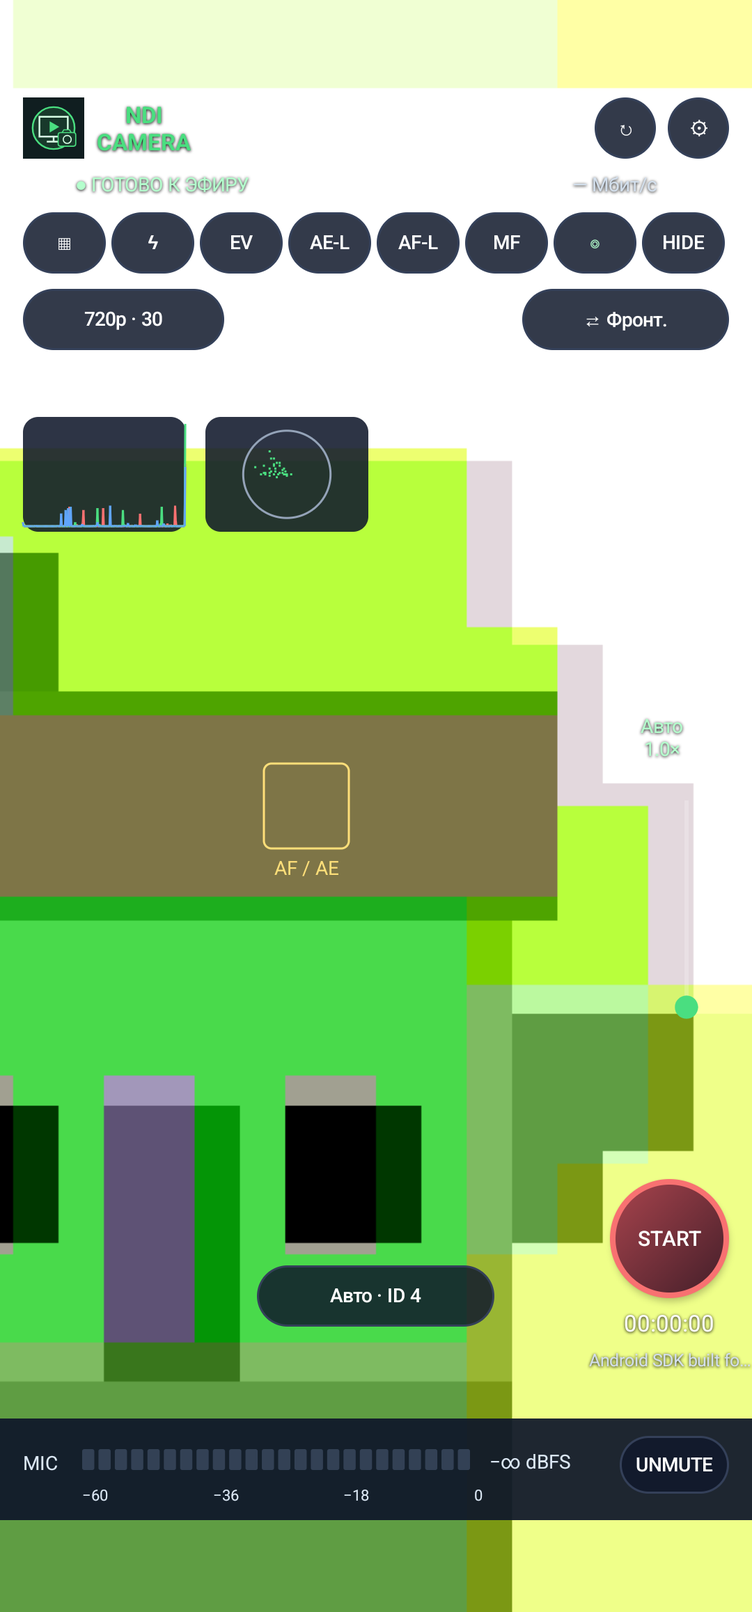
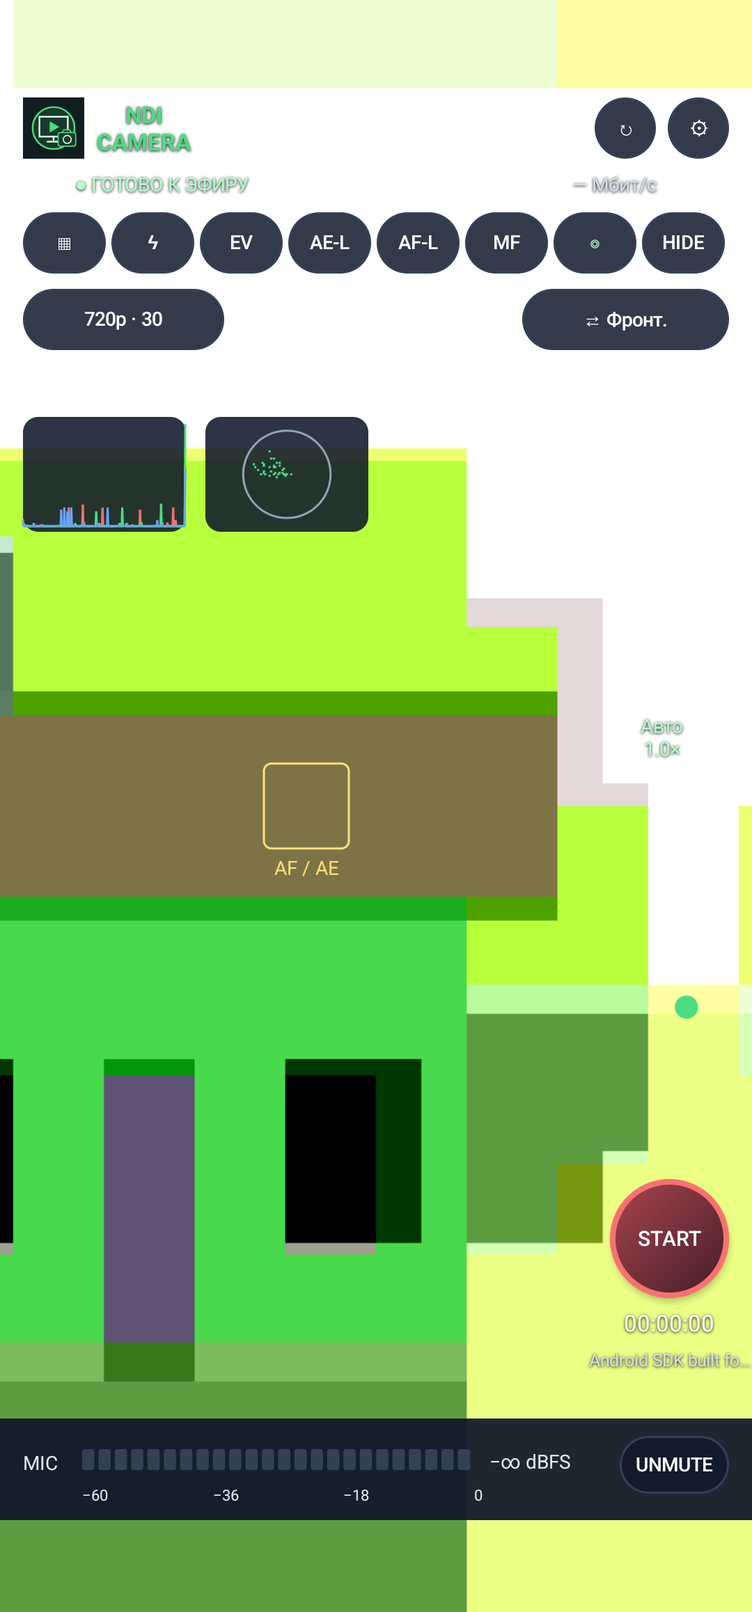
Use automatic lenses and center landscape quick controls

diff --git a/src/ru/ileech/ndicamera/CameraHud.java b/src/ru/ileech/ndicamera/CameraHud.java
@@ -17,7 +17,7 @@ final class CameraHud extends FrameLayout {
  private final Rect safeInsets=new Rect();private List<Rect> cutoutRects=Collections.emptyList();private int contentLeft,contentRight,contentBottom,headerTop,scopeTop;private boolean landscape;
  CameraHud(Context c,CameraController camera,Actions actions){super(c);this.camera=camera;this.actions=actions;setWillNotDraw(false);setBackgroundColor(Color.TRANSPARENT);setFocusable(true);
   logo=new ImageView(c);logo.setImageResource(R.drawable.ic_launcher);logo.setContentDescription("NDI Camera");addView(logo);brand=label("NDI\nCAMERA",12,0xff4ade80);brand.setTypeface(null,1);status=label("ГОТОВО К ЭФИРУ",10,0xffb4ffcd);timer=label("00:00:00",12,Color.WHITE);bitrate=label("— Мбит/с",10,0xffd3dfec);source=label("Android Camera",9,0xffd3dfec);zoomText=label("1×",12,0xffb4ffcd);
-  button("lock","↻","Блокировка ориентации");button("settings","⚙","Настройки");button("grid","▦","Сетка");button("light","ϟ","Подсветка");button("ev","EV","Экспокоррекция");button("ae","AE-L","Зафиксировать экспозицию");button("af","AF-L","Зафиксировать фокус");button("mf","MF","Ручной фокус");button("scopes","◎","Вектроскоп и RGB-гистограмма");button("hide","HIDE","Скрыть оверлей");button("camera","⇄ Тыловая","Переключить камеру");button("swap","⇄","Поменять основную камеру и PIP");button("quality","720p · 30","Разрешение и частота кадров");button("lenses","◎ 1×","Выбрать объектив");button("start","START","Начать / остановить трансляцию");button("mute","MUTE","Выключить / включить микрофон");button("restore","HUD","Показать оверлей");
+  button("lock","↻","Блокировка ориентации");button("settings","⚙","Настройки");button("grid","▦","Сетка");button("light","ϟ","Подсветка");button("ev","EV","Экспокоррекция");button("ae","AE-L","Зафиксировать экспозицию");button("af","AF-L","Зафиксировать фокус");button("mf","MF","Ручной фокус");button("scopes","◎","Вектроскоп и RGB-гистограмма");button("hide","HIDE","Скрыть оверлей");button("camera","⇄ Тыловая","Переключить камеру");button("swap","⇄","Поменять основную камеру и PIP");button("quality","720p · 30","Разрешение и частота кадров");button("start","START","Начать / остановить трансляцию");button("mute","MUTE","Выключить / включить микрофон");button("restore","HUD","Показать оверлей");
   GradientDrawable red=new GradientDrawable(GradientDrawable.Orientation.TL_BR,new int[]{0xffa9444d,0xff421e29});red.setShape(GradientDrawable.OVAL);red.setStroke(dp(3),0xfff87171);buttons.get("start").setBackground(red);buttons.get("start").setTextSize(11);
   zoom=new SeekBar(c);zoom.setMax(1000);zoom.setRotation(-90);zoom.setProgressTintList(android.content.res.ColorStateList.valueOf(0xff4ade80));zoom.setThumbTintList(android.content.res.ColorStateList.valueOf(0xff4ade80));zoom.setContentDescription("Зум");addView(zoom);zoom.setOnSeekBarChangeListener(new SeekBar.OnSeekBarChangeListener(){public void onProgressChanged(SeekBar s,int p,boolean from){if(from&&!programmatic)actions.zoom(camera.minZoom+p/1000f*(camera.maxZoom-camera.minZoom));}public void onStartTrackingTouch(SeekBar s){}public void onStopTrackingTouch(SeekBar s){}});
   scale=new ScaleGestureDetector(c,new ScaleGestureDetector.SimpleOnScaleGestureListener(){@Override public boolean onScaleBegin(ScaleGestureDetector d){multi=true;removeCallbacks(hold);pinchZoom=camera.zoom;return true;}@Override public boolean onScale(ScaleGestureDetector d){pinchZoom=Math.max(camera.minZoom,Math.min(camera.maxZoom,pinchZoom*d.getScaleFactor()));actions.zoom(pinchZoom);return true;}});
@@ -33,20 +33,21 @@ final class CameraHud extends FrameLayout {
  @Override protected void onMeasure(int widthSpec,int heightSpec){layoutControls(MeasureSpec.getSize(widthSpec),MeasureSpec.getSize(heightSpec));super.onMeasure(widthSpec,heightSpec);}
  private void layoutControls(int fullWidth,int fullHeight){int left=safeInsets.left,right=fullWidth-safeInsets.right,w=right-left,bottom=fullHeight-safeInsets.bottom;if(w<=0||bottom<=0)return;boolean land=w>bottom;landscape=land;contentLeft=left;contentRight=right;contentBottom=bottom;int margin=dp(12),unit=dp(32),top=Math.max(50,safeInsets.top);for(Rect cutout:cutoutRects)if(cutout.top<top+unit&&cutout.bottom>top&&((cutout.left<left+margin+dp(91)&&cutout.right>left+margin)||(cutout.left<right-margin&&cutout.right>right-margin-2*unit-dp(6))))top=Math.max(top,cutout.bottom+4);headerTop=top;
   place(logo,left+margin,top,dp(32),dp(32));place(brand,left+margin+dp(36),top,dp(55),dp(32));place(buttons.get("settings"),right-margin-unit,top,unit,unit);place(buttons.get("lock"),right-margin-unit*2-dp(6),top,unit,unit);
-  int statusY=top+dp(36),row=statusY+dp(24),gap=dp(3),tool=Math.min(dp(52),(w-margin*2-gap*7)/8);
-  place(status,left+margin,statusY,dp(145),dp(18));place(bitrate,right-margin-dp(120),statusY,dp(120),dp(18));String[] tools={"grid","light","ev","ae","af","mf","scopes","hide"};for(int i=0;i<tools.length;i++)place(buttons.get(tools[i]),left+margin+i*(tool+gap),row,tool,unit);
-  int line=row+unit+dp(8),cameraWidth=dp(108);place(buttons.get("camera"),right-margin-cameraWidth,line,cameraWidth,unit);place(buttons.get("swap"),right-margin-cameraWidth-unit-dp(6),line,unit,unit);place(buttons.get("quality"),left+margin,line,dp(105),unit);
-  int audioTop=bottom-dp(53),startX=right-margin-dp(62)-(land?dp(70):0),startY=audioTop-dp(125);place(buttons.get("start"),startX,startY,dp(62),dp(62));place(timer,startX-dp(8),startY+dp(65),dp(78),dp(20));place(source,startX-dp(12),startY+dp(85),dp(86),dp(18));place(buttons.get("mute"),right-margin-dp(57),audioTop+dp(9),dp(57),dp(30));place(buttons.get("lenses"),left+w/2-dp(62),audioTop-dp(80),dp(124),dp(32));
+  int statusY=land?top+unit+dp(3):top+dp(36),row=land?top:statusY+dp(24),gap=dp(3),tool=Math.min(dp(52),(w-margin*2-gap*7)/8);
+  int toolbarLeft=left+margin;if(land){int center=left+w/2,half=Math.min(center-(left+margin+dp(108)),right-margin-2*unit-dp(22)-center);tool=Math.min(tool,Math.max(1,(half*2-gap*7)/8));toolbarLeft=center-(tool*8+gap*7)/2;for(Rect cutout:cutoutRects)if(cutout.left<toolbarLeft+tool*8+gap*7&&cutout.right>toolbarLeft&&cutout.top<row+unit&&cutout.bottom>row)row=Math.max(row,cutout.bottom+4);}
+  place(status,left+margin,statusY,dp(145),dp(land?14:18));place(bitrate,right-margin-dp(120),statusY,dp(120),dp(land?14:18));String[] tools={"grid","light","ev","ae","af","mf","scopes","hide"};for(int i=0;i<tools.length;i++)place(buttons.get(tools[i]),toolbarLeft+i*(tool+gap),row,tool,unit);
+  int line=land?top+unit+50:row+unit+dp(8),cameraWidth=dp(108);place(buttons.get("camera"),right-margin-cameraWidth,line,cameraWidth,unit);place(buttons.get("swap"),right-margin-cameraWidth-unit-dp(6),line,unit,unit);place(buttons.get("quality"),left+margin,line,dp(105),unit);
+  int audioTop=bottom-dp(53),startX=right-margin-dp(62)-(land?dp(70):0),startY=audioTop-dp(125);place(buttons.get("start"),startX,startY,dp(62),dp(62));place(timer,startX-dp(8),startY+dp(65),dp(78),dp(20));place(source,startX-dp(12),startY+dp(85),dp(86),dp(18));place(buttons.get("mute"),right-margin-dp(57),audioTop+dp(9),dp(57),dp(30));
   int sliderLength=land?Math.max(dp(40),Math.min(dp(95),audioTop-line-unit-dp(58))):Math.min(dp(140),Math.max(dp(50),startY-line-unit-dp(70)));
   int sliderTop=land?line+unit+dp(38):Math.max(line+unit+dp(45),Math.min(startY-dp(25)-sliderLength,(bottom+line)/2-sliderLength/2));int centerY=sliderTop+sliderLength/2;
   place(zoom,right-margin-dp(22)-sliderLength/2,centerY-dp(22),sliderLength,dp(44));place(zoomText,right-margin-dp(70),sliderTop-dp(31),dp(70),dp(27));place(buttons.get("restore"),right-margin-dp(56),top,dp(56),unit);buttons.get("restore").setVisibility(hidden?VISIBLE:GONE);
   scopeTop=line+unit+dp(35);float pw=Math.min(dp(95),w*.24f),ph=pw*1.4f,pipLeft=left+25,pipBottom=audioTop-dp(20);actions.pipBounds(new RectF(pipLeft/fullWidth,(pipBottom-ph)/fullHeight,(pipLeft+pw)/fullWidth,pipBottom/fullHeight));
  }
  void update(boolean live,boolean muted,boolean showBitrate,boolean locked,String name,StreamSession stream){
-  buttons.get("start").setText(live?"STOP":"START");buttons.get("mute").setText(muted?"UNMUTE":"MUTE");buttons.get("camera").setText(camera.pip?"⇄ Обе · PIP":camera.mainFront?"⇄ Фронт.":"⇄ Тыловая");buttons.get("swap").setVisibility(!hidden&&camera.pip?VISIBLE:GONE);buttons.get("quality").setText(camera.height+"p · "+camera.fps);buttons.get("lock").setText(locked?"▣":"↻");buttons.get("lenses").setText(camera.lensCaption());buttons.get("lenses").setContentDescription("Выбрать объектив. "+camera.lensDescription());
+  buttons.get("start").setText(live?"STOP":"START");buttons.get("mute").setText(muted?"UNMUTE":"MUTE");buttons.get("camera").setText(camera.pip?"⇄ Обе · PIP":camera.mainFront?"⇄ Фронт.":"⇄ Тыловая");buttons.get("swap").setVisibility(!hidden&&camera.pip?VISIBLE:GONE);buttons.get("quality").setText(camera.height+"p · "+camera.fps);buttons.get("lock").setText(locked?"▣":"↻");
   buttons.get("ev").setEnabled(camera.supportsExposure());active("grid",grid);active("light",camera.torch||frontLight);active("ae",camera.aeLock);active("af",camera.afLock);active("mf",camera.manual);active("scopes",scopes);buttons.get("af").setEnabled(camera.supportsAf()&&!camera.manual);buttons.get("ae").setEnabled(camera.supportsAeLock());buttons.get("mf").setEnabled(camera.supportsManual());
   bitrate.setVisibility(!hidden&&showBitrate?VISIBLE:GONE);bitrate.setText(stream==null||stream.mbps<0?"— Мбит/с":String.format(Locale.US,"≈ %.1f Мбит/с",stream.mbps));status.setText(live?"● ЭФИР · "+(stream==null?0:stream.receivers)+" приёмн.":camera.ready?"● ГОТОВО К ЭФИРУ":"● ОТКРЫТИЕ КАМЕРЫ");
-  long seconds=stream==null?0:(android.os.SystemClock.elapsedRealtime()-stream.startedAt)/1000;timer.setText(String.format(Locale.US,"%02d:%02d:%02d",seconds/3600,seconds/60%60,seconds%60));source.setText(name);level=stream==null?-90:stream.dbfs;programmatic=true;zoom.setProgress(camera.maxZoom==camera.minZoom?0:Math.round(1000*(camera.zoom-camera.minZoom)/(camera.maxZoom-camera.minZoom)));programmatic=false;zoomText.setText(String.format(Locale.US,"%s\n%.1f×",CameraController.automatic(camera.active)?"Авто":"Цифровой",camera.zoom));zoom.setContentDescription("Зум. "+camera.lensDescription());invalidate();
+  long seconds=stream==null?0:(android.os.SystemClock.elapsedRealtime()-stream.startedAt)/1000;timer.setText(String.format(Locale.US,"%02d:%02d:%02d",seconds/3600,seconds/60%60,seconds%60));source.setText(name);level=stream==null?-90:stream.dbfs;programmatic=true;zoom.setProgress(camera.maxZoom==camera.minZoom?0:Math.round(1000*(camera.zoom-camera.minZoom)/(camera.maxZoom-camera.minZoom)));programmatic=false;zoomText.setText(String.format(Locale.US,"%s\n%.1f×","Авто",camera.zoom));zoom.setContentDescription("Зум. "+camera.lensDescription());invalidate();
  }
  private void active(String id,boolean on){Button b=buttons.get(id);b.setTextColor(on?0xffb4ffcd:Color.WHITE);b.setSelected(on);b.setAlpha(b.isEnabled()?1:.45f);}
  void hide(boolean value){hidden=value;for(int i=0;i<getChildCount();i++)getChildAt(i).setVisibility(value?GONE:VISIBLE);buttons.get("restore").setVisibility(value?VISIBLE:GONE);buttons.get("swap").setVisibility(!value&&camera.pip?VISIBLE:GONE);invalidate();}

diff --git a/verification/SmokeInstrumentation.java b/verification/SmokeInstrumentation.java
@@ -30,15 +30,16 @@ public class SmokeInstrumentation extends Instrumentation {
   ui(()->camera.zoom(camera.minZoom));settle();float before=camera.zoom;
   ui(()->{long t=SystemClock.uptimeMillis();float cx=hud.getWidth()*.5f,cy=hud.getHeight()*.5f;touch(t,t,MotionEvent.ACTION_DOWN,new float[]{cx-100},new float[]{cy});touch(t,t+20,MotionEvent.ACTION_POINTER_DOWN|(1<<8),new float[]{cx-100,cx+100},new float[]{cy,cy});for(int i=0;i<20;i++)touch(t,t+40+i*20,MotionEvent.ACTION_MOVE,new float[]{cx-100-i*14,cx+100+i*14},new float[]{cy,cy});touch(t,t+460,MotionEvent.ACTION_POINTER_UP|(1<<8),new float[]{cx-366,cx+366},new float[]{cy,cy});touch(t,t+480,MotionEvent.ACTION_UP,new float[]{cx-366},new float[]{cy});});settle();if(camera.maxZoom>camera.minZoom)require(camera.zoom>before,"pinch zoom before="+before+" after="+camera.zoom+" range="+camera.minZoom+".."+camera.maxZoom);checks.append("two-pointer pinch zoom\n");
   ui(()->activity.action("camera"));ready();settle();if(!camera.front.isEmpty())require(camera.mainFront,"front camera switch");ui(()->activity.action("light"));require(hud.frontLight,"front screen light");ui(()->activity.action("light"));require(!hud.frontLight,"front light off");checks.append("front camera + screen flash\n");
-  ui(()->activity.setRequestedOrientation(ActivityInfo.SCREEN_ORIENTATION_LANDSCAPE));for(int n=0;n<50&&hud.getWidth()<hud.getHeight();n++)Thread.sleep(100);require(hud.getWidth()>hud.getHeight(),"landscape layout");settle();checkButtons();insets(130,0,75,0);insets(0,0,145,70);screenshot("landscape");checks.append("landscape: controls and rotated slider inside cutout/navigation safe bounds\n");
-  ui(()->activity.setRequestedOrientation(ActivityInfo.SCREEN_ORIENTATION_PORTRAIT));for(int n=0;n<50&&hud.getWidth()>hud.getHeight();n++)Thread.sleep(100);settle();checkButtons();insets(0,90,0,120);screenshot("portrait");checks.append("portrait: MUTE/audio in bounds with navigation inset, header at 50 px\n");
+  ui(()->activity.setRequestedOrientation(ActivityInfo.SCREEN_ORIENTATION_LANDSCAPE));for(int n=0;n<50&&hud.getWidth()<hud.getHeight();n++)Thread.sleep(100);require(hud.getWidth()>hud.getHeight(),"landscape layout");settle();checkButtons();autoHud();insets(130,0,75,0);insets(0,0,145,70);insets(0,90,0,0);screenshot("landscape");checks.append("landscape: controls and rotated slider inside cutout/navigation safe bounds\n");
+  ui(()->activity.setRequestedOrientation(ActivityInfo.SCREEN_ORIENTATION_PORTRAIT));for(int n=0;n<50&&hud.getWidth()>hud.getHeight();n++)Thread.sleep(100);settle();checkButtons();autoHud();insets(0,90,0,120);screenshot("portrait");checks.append("portrait: MUTE/audio in bounds with navigation inset, header at 50 px\n");
   ui(()->activity.action("camera"));settle();if(!camera.concurrent())require(!camera.pip,"unsupported PIP rejected");checks.append("PIP capability fallback\n");
-  physical(checks);
+  autoHud();checks.append("automatic camera only; lens selector absent; centered 50px toolbar and 50px settings/camera gap"+"\n");
   result.putString("checks",checks.toString());result.putString("verdict","PASS");finish(Activity.RESULT_OK,result);
  }catch(Throwable e){result.putString("checks",checks.toString());result.putString("failure",e.toString());finish(Activity.RESULT_CANCELED,result);}}
  private void screenshot(String name)throws Exception{android.graphics.Bitmap bitmap=getUiAutomation().takeScreenshot();require(bitmap!=null,"screenshot "+name);require(name.equals("landscape")?bitmap.getWidth()>bitmap.getHeight():bitmap.getHeight()>bitmap.getWidth(),"screenshot orientation "+name);try(java.io.FileOutputStream out=new java.io.FileOutputStream(new java.io.File(getTargetContext().getExternalFilesDir(null),name+".png"))){bitmap.compress(android.graphics.Bitmap.CompressFormat.PNG,100,out);}bitmap.recycle();}
- private void physical(StringBuilder checks)throws Exception{boolean hidden=false,any=false;for(CameraController.Lens lens:camera.rear)if(!CameraController.automatic(lens)&&lens.available){List<android.util.Size> sizes=camera.sizes(lens);if(sizes.isEmpty())continue;android.util.Size size=sizes.get(0);for(android.util.Size s:sizes)if(s.getWidth()==1280&&s.getHeight()==720)size=s;List<Integer> fps=camera.rates(lens,size,false);if(fps.isEmpty())continue;final android.util.Size selected=size;final int rate=fps.contains(30)?30:fps.get(0);ui(()->camera.configure(lens,false,false,selected.getWidth(),selected.getHeight(),rate));settle();ready();require(camera.active==lens,"lens fell back: "+lens.label+" / "+camera.state);ui(()->camera.zoom(Math.min(2,camera.maxZoom)));settle();String id=lens.physical==null?lens.id:lens.physical;require(id.equals(camera.reportedPhysical),"zoom changed fixed lens");checks.append("fixed output ID "+id+" selected and zoomed without rerouting\n");any=true;if(lens.physical!=null)hidden=true;}if(!hidden)checks.append("device exposes no selectable hidden physical rear output\n");if(!any)checks.append("device exposes only automatic rear output\n");}
- private void insets(int left,int top,int right,int bottom)throws Exception{WindowInsets actual=hud.getRootWindowInsets();WindowInsets simulated=new WindowInsets.Builder().setInsetsIgnoringVisibility(WindowInsets.Type.systemBars(),android.graphics.Insets.of(left,top,right,bottom)).setInsets(WindowInsets.Type.systemBars(),android.graphics.Insets.NONE).setDisplayCutout(new DisplayCutout(android.graphics.Insets.of(left,top,0,0),left>0?new android.graphics.Rect(0,0,left,100):null,top>0?new android.graphics.Rect(hud.getWidth()/2-30,0,hud.getWidth()/2+30,top):null,null,null)).build();ui(()->hud.dispatchApplyWindowInsets(simulated));settle();ui(()->{require(hud.getPaddingLeft()==0&&hud.getPaddingTop()==0,"no duplicate FrameLayout padding");for(int i=0;i<hud.getChildCount();i++){View v=hud.getChildAt(i);if(v.getVisibility()!=View.VISIBLE)continue;RectF r=new RectF(0,0,v.getWidth(),v.getHeight());v.getMatrix().mapRect(r);r.offset(v.getLeft(),v.getTop());require(r.left>=left-.1f&&r.right<=hud.getWidth()-right+.1f&&r.bottom<=hud.getHeight()-bottom+.1f,"child outside safe bounds: "+v.getContentDescription()+" "+r);}View logo=null;for(int i=0;i<hud.getChildCount();i++)if(hud.getChildAt(i) instanceof android.widget.ImageView)logo=hud.getChildAt(i);require(logo!=null&&logo.getTop()==50,"header physical 50px");});checkButtons();ui(()->hud.dispatchApplyWindowInsets(actual));settle();}
+ private void insets(int left,int top,int right,int bottom)throws Exception{WindowInsets actual=hud.getRootWindowInsets();WindowInsets simulated=new WindowInsets.Builder().setInsetsIgnoringVisibility(WindowInsets.Type.systemBars(),android.graphics.Insets.of(left,top,right,bottom)).setInsets(WindowInsets.Type.systemBars(),android.graphics.Insets.NONE).setDisplayCutout(new DisplayCutout(android.graphics.Insets.of(left,top,0,0),left>0?new android.graphics.Rect(0,0,left,100):null,top>0?new android.graphics.Rect(hud.getWidth()/2-30,0,hud.getWidth()/2+30,top):null,null,null)).build();ui(()->hud.dispatchApplyWindowInsets(simulated));settle();ui(()->{require(hud.getPaddingLeft()==0&&hud.getPaddingTop()==0,"no duplicate FrameLayout padding");for(int i=0;i<hud.getChildCount();i++){View v=hud.getChildAt(i);if(v.getVisibility()!=View.VISIBLE)continue;RectF r=new RectF(0,0,v.getWidth(),v.getHeight());v.getMatrix().mapRect(r);r.offset(v.getLeft(),v.getTop());require(r.left>=left-.1f&&r.right<=hud.getWidth()-right+.1f&&r.bottom<=hud.getHeight()-bottom+.1f,"child outside safe bounds: "+v.getContentDescription()+" "+r);}View logo=null;for(int i=0;i<hud.getChildCount();i++)if(hud.getChildAt(i) instanceof android.widget.ImageView)logo=hud.getChildAt(i);require(logo!=null&&logo.getTop()==50,"header physical 50px");});checkButtons();autoHud();ui(()->hud.dispatchApplyWindowInsets(actual));settle();}
+ @SuppressWarnings("unchecked") private void autoHud()throws Exception{Map<String,android.widget.Button> buttons=(Map<String,android.widget.Button>)field(hud,"buttons");ui(()->{require(!buttons.containsKey("lenses"),"no lens selector in either orientation");require(camera.active.physical==null,"automatic camera output");if(hud.getWidth()>hud.getHeight()){View first=buttons.get("grid"),last=buttons.get("hide"),settings=buttons.get("settings"),switcher=buttons.get("camera");int expected=(Integer)readHud("headerTop");for(android.graphics.Rect cutout:(List<android.graphics.Rect>)readHud("cutoutRects"))if(cutout.left<last.getRight()&&cutout.right>first.getLeft()&&cutout.top<expected+first.getHeight()&&cutout.bottom>expected)expected=Math.max(expected,cutout.bottom+4);require(first.getTop()==expected&&last.getTop()==expected,"landscape tools at 50px or below intersecting cutout");int left=(Integer)readHud("contentLeft"),right=(Integer)readHud("contentRight");require(Math.abs(first.getLeft()+last.getRight()-left-right)<=1,"toolbar centered in safe viewport");require(switcher.getTop()-settings.getBottom()==50,"camera 50px below settings");}});}
+ private Object readHud(String name){try{return field(hud,name);}catch(Exception e){throw new RuntimeException(e);}}
  private void geometry(){for(int sensor:new int[]{0,90,180,270})for(boolean mirror:new boolean[]{false,true}){float[] producer=new float[16];android.opengl.Matrix.setIdentityM(producer,0);android.opengl.Matrix.translateM(producer,0,.5f,.5f,0);android.opengl.Matrix.rotateM(producer,0,sensor,0,0,1);android.opengl.Matrix.scaleM(producer,0,mirror?-1:1,-1,1);android.opengl.Matrix.translateM(producer,0,-.5f,-.5f,0);int nw=sensor%180==0?1280:720,nh=sensor%180==0?720:1280;float[] unchanged=PreviewTransform.matrix(producer,1280,720,0,nw,nh,false,1);for(int i=0;i<16;i++)require(Math.abs(unchanged[i]-producer[i])<.0001,"producer rotation applied exactly once");for(int display=0;display<4;display++)for(int[] output:new int[][]{{1080,2316},{2316,1080},{720,1280},{1280,720}}){float[] m=PreviewTransform.matrix(producer,1280,720,display,output[0],output[1],false,1),flipped=PreviewTransform.matrix(producer,1280,720,display,output[0],output[1],true,1);double dx=Math.hypot(m[0]*1280/output[0],m[1]*720/output[0]),dy=Math.hypot(m[4]*1280/output[1],m[5]*720/output[1]);require(Math.abs(dx-dy)<.0001,"no stretching: "+sensor+" / "+display);float[] a=new float[4],b=new float[4];android.opengl.Matrix.multiplyMV(a,0,m,0,new float[]{.2f,.7f,0,1},0);android.opengl.Matrix.multiplyMV(b,0,flipped,0,new float[]{.2f,.3f,0,1},0);require(Math.abs(a[0]-b[0])+Math.abs(a[1]-b[1])<.0001,"readback and preview agree");}}}
  private void checkButtons(){ui(()->{List<View> views=new ArrayList<>();for(int i=0;i<hud.getChildCount();i++){View v=hud.getChildAt(i);if(v instanceof android.widget.Button&&v.getVisibility()==View.VISIBLE)views.add(v);}for(int i=0;i<views.size();i++)for(int j=i+1;j<views.size();j++){View a=views.get(i),b=views.get(j);RectF x=new RectF(a.getLeft(),a.getTop(),a.getRight(),a.getBottom()),y=new RectF(b.getLeft(),b.getTop(),b.getRight(),b.getBottom());require(!RectF.intersects(x,y),"buttons overlap: "+a.getContentDescription()+" / "+b.getContentDescription());}});}
  private void touch(long down,long time,int action,float[] x,float[] y){MotionEvent.PointerProperties[] props=new MotionEvent.PointerProperties[x.length];MotionEvent.PointerCoords[] coords=new MotionEvent.PointerCoords[x.length];for(int i=0;i<x.length;i++){props[i]=new MotionEvent.PointerProperties();props[i].id=i;props[i].toolType=MotionEvent.TOOL_TYPE_FINGER;coords[i]=new MotionEvent.PointerCoords();coords[i].x=x[i];coords[i].y=y[i];coords[i].pressure=1;coords[i].size=1;}MotionEvent e=MotionEvent.obtain(down,time,action,x.length,props,coords,0,0,1,1,0,0,android.view.InputDevice.SOURCE_TOUCHSCREEN,0);hud.dispatchTouchEvent(e);e.recycle();}

diff --git a/src/ru/ileech/ndicamera/MainActivity.java b/src/ru/ileech/ndicamera/MainActivity.java
@@ -52,7 +52,6 @@ public class MainActivity extends Activity implements CameraHud.Actions {
   case "camera":cycle();break;
   case "swap":setFrontLight(false);choose(!camera.mainFront?camera.front.get(0):camera.rear.get(0),true,!camera.mainFront,720,30);break;
   case "quality":if(stream!=null){message("Остановите трансляцию перед изменением качества");break;}qualityDialog();break;
-  case "lenses":lensDialog();break;
   case "start":if(stream==null)start();else stop();break;
   case "mute":if(muted){if(checkSelfPermission(Manifest.permission.RECORD_AUDIO)!=PackageManager.PERMISSION_GRANTED){requestPermissions(new String[]{Manifest.permission.RECORD_AUDIO},12);break;}unmute();}else{muted=true;if(stream!=null)stream.muted=true;}break;
  }}
@@ -66,7 +65,6 @@ public class MainActivity extends Activity implements CameraHud.Actions {
  private void choose(CameraController.Lens lens,boolean pip,boolean front,int height,int fps){List<Size> choices=camera.sizes(lens);if(pip)choices.removeIf(s->s.getWidth()>1280||s.getHeight()>720);Size selected=null;int edge=pip?Math.min(720,height):height;for(Size s:choices)if(selected==null||Math.abs(s.getHeight()-edge)<Math.abs(selected.getHeight()-edge))selected=s;if(selected==null){message("Объектив не предоставляет подходящий видеорежим");return;}chooseSize(lens,pip,front,selected,fps);}
  private void chooseSize(CameraController.Lens lens,boolean pip,boolean front,Size selected,int fps){List<Integer> rates=camera.rates(lens,selected,pip);if(rates.isEmpty()){message("Нет совместимого режима 25/30/50/60 FPS");return;}int rate=rates.get(0);for(int value:rates)if(Math.abs(value-fps)<Math.abs(rate-fps))rate=value;camera.configure(lens,pip,front,selected.getWidth(),selected.getHeight(),rate);error="";}
  private void qualityDialog(){List<Size> sizes=camera.sizes(camera.active);if(camera.pip)sizes.removeIf(s->s.getWidth()>1280||s.getHeight()>720);String[] labels=new String[sizes.size()];for(int i=0;i<labels.length;i++)labels[i]=sizes.get(i).getWidth()+" × "+sizes.get(i).getHeight();new AlertDialog.Builder(this).setTitle("Разрешение камеры").setItems(labels,(d,index)->{Size size=sizes.get(index);List<Integer> rates=camera.rates(size);if(rates.isEmpty()){message("Для этого разрешения нет доступных 25/30/50/60 FPS");return;}String[] options=new String[rates.size()];for(int j=0;j<options.length;j++)options[j]=rates.get(j)+" кадров/с";new AlertDialog.Builder(this).setTitle("Частота кадров").setItems(options,(a,n)->chooseSize(camera.active,camera.pip,camera.mainFront,size,rates.get(n))).setNegativeButton("Отмена",null).show();}).setNegativeButton("Отмена",null).show();}
- private void lensDialog(){List<CameraController.Lens> lenses=camera.mainFront?camera.front:camera.rear;List<String> names=new ArrayList<>();int selected=-1;for(int i=0;i<lenses.size();i++){CameraController.Lens lens=lenses.get(i);names.add(lens.label+(lens.available?"":" · недоступен"));if(lens==camera.active)selected=i;}names.add("Зум текущего объектива…");new AlertDialog.Builder(this).setTitle(camera.lensDescription()).setSingleChoiceItems(names.toArray(new String[0]),selected,(d,index)->{if(index==lenses.size()){d.dismiss();slider(camera.active.physical!=null?"Цифровой зум":"Зум камеры",0,1000,Math.round(1000*(camera.zoom-camera.minZoom)/Math.max(.01f,camera.maxZoom-camera.minZoom)),value->zoom(camera.minZoom+value/1000f*(camera.maxZoom-camera.minZoom)));return;}if(!lenses.get(index).available){message("Этот объектив отклонил конфигурацию Camera2 и недоступен");return;}if(camera.pip){message("В PIP используется основная пара камер. Выберите одиночный режим для смены объектива.");return;}d.dismiss();setFrontLight(false);choose(lenses.get(index),false,camera.mainFront,camera.height,camera.fps);}).setNegativeButton("Отмена",null).show();}
  private interface Value {void changed(int value);}
  private void slider(String title,int min,int max,int value,Value callback){LinearLayout box=new LinearLayout(this);box.setOrientation(1);box.setPadding(28,20,28,20);TextView text=new TextView(this);text.setTextColor(-1);text.setText(title);box.addView(text);SeekBar bar=new SeekBar(this);bar.setMax(max-min);bar.setProgress(value-min);box.addView(bar);bar.setOnSeekBarChangeListener(new SeekBar.OnSeekBarChangeListener(){public void onProgressChanged(SeekBar s,int v,boolean from){if(from){callback.changed(v+min);text.setText(title+" · "+(title.equals("EV")?String.format(Locale.US,"%.1f",(v+min)/10f):String.valueOf(v+min)));}}public void onStartTrackingTouch(SeekBar s){}public void onStopTrackingTouch(SeekBar s){}});new AlertDialog.Builder(this).setTitle(title).setView(box).setPositiveButton("Готово",null).show();}
  private void exposureDialog(){if(!camera.supportsExposure()){message("Экспокоррекция недоступна для этого физического объектива");return;}android.util.Range<Integer> range=camera.active.info.get(CameraCharacteristics.CONTROL_AE_COMPENSATION_RANGE);android.util.Rational step=camera.active.info.get(CameraCharacteristics.CONTROL_AE_COMPENSATION_STEP);if(range==null||step==null||step.floatValue()==0){message("Экспокоррекция недоступна");return;}slider("EV",Math.round(range.getLower()*step.floatValue()*10),Math.round(range.getUpper()*step.floatValue()*10),Math.round(camera.ev*10),value->exposure(value/10f));}

diff --git a/src/ru/ileech/ndicamera/SettingsActivity.java b/src/ru/ileech/ndicamera/SettingsActivity.java
@@ -9,7 +9,7 @@ public class SettingsActivity extends Activity {
  private TextView status;private EditText name;private final Handler handler=new Handler();private final Runnable refresh=new Runnable(){public void run(){status.setText(Updates.status);Updates.offer(SettingsActivity.this);handler.postDelayed(this,1000);}};
  private int dp(int n){return Math.round(n*getResources().getDisplayMetrics().density);}
  private TextView text(String value,int size){TextView v=new TextView(this);v.setText(value);v.setTextColor(Color.WHITE);v.setTextSize(size);v.setPadding(0,dp(12),0,dp(12));return v;}
- @Override public void onCreate(Bundle state){super.onCreate(state);getWindow().setStatusBarColor(0xff0f172a);getWindow().setNavigationBarColor(0xff0f172a);ScrollView scroll=new ScrollView(this);scroll.setBackgroundColor(0xff0f172a);LinearLayout root=new LinearLayout(this);root.setOrientation(1);root.setPadding(dp(24),dp(24),dp(24),dp(30));scroll.addView(root);setContentView(scroll);TextView back=text("‹  Настройки NDI Camera",23);back.setOnClickListener(v->finish());root.addView(back);root.addView(text("Название устройства",14));name=new EditText(this);name.setSingleLine();name.setTextColor(-1);name.setText(Updates.prefs(this).getString("deviceName",Build.MODEL+" Camera"));root.addView(name);toggle(root,"Показывать битрейт","showBitrate",true);toggle(root,"Автообновление · каждые 24 часа","autoUpdate",true);root.addView(text("Обновления загружаются из Mike-iLeech/NDICamera Releases. Перед установкой проверяются SHA-256, пакет, версия и подпись. Установку подтверждает Android.",14));Button check=new Button(this);check.setText("Проверить обновления");root.addView(check);check.setOnClickListener(v->Updates.check(this,true,null));status=text(Updates.status,14);root.addView(status);root.addView(text("Версия 0.1.1 · Android Camera2\nNDI® · ndi.video",13));Button licenses=new Button(this);licenses.setText("Лицензии NDI");root.addView(licenses);licenses.setOnClickListener(v->{try{java.io.InputStream in=getAssets().open("NDI-License.txt");java.io.ByteArrayOutputStream out=new java.io.ByteArrayOutputStream();byte[] b=new byte[4096];int n;while((n=in.read(b))>0)out.write(b,0,n);in.close();TextView content=text(out.toString("UTF-8"),12);ScrollView box=new ScrollView(this);box.addView(content);new AlertDialog.Builder(this).setTitle("NDI SDK License").setView(box).setPositiveButton("Закрыть",null).show();}catch(Exception e){Toast.makeText(this,e.getMessage(),Toast.LENGTH_LONG).show();}});}
+ @Override public void onCreate(Bundle state){super.onCreate(state);getWindow().setStatusBarColor(0xff0f172a);getWindow().setNavigationBarColor(0xff0f172a);ScrollView scroll=new ScrollView(this);scroll.setBackgroundColor(0xff0f172a);LinearLayout root=new LinearLayout(this);root.setOrientation(1);root.setPadding(dp(24),dp(24),dp(24),dp(30));scroll.addView(root);setContentView(scroll);TextView back=text("‹  Настройки NDI Camera",23);back.setOnClickListener(v->finish());root.addView(back);root.addView(text("Название устройства",14));name=new EditText(this);name.setSingleLine();name.setTextColor(-1);name.setText(Updates.prefs(this).getString("deviceName",Build.MODEL+" Camera"));root.addView(name);toggle(root,"Показывать битрейт","showBitrate",true);toggle(root,"Автообновление · каждые 24 часа","autoUpdate",true);root.addView(text("Обновления загружаются из Mike-iLeech/NDICamera Releases. Перед установкой проверяются SHA-256, пакет, версия и подпись. Установку подтверждает Android.",14));Button check=new Button(this);check.setText("Проверить обновления");root.addView(check);check.setOnClickListener(v->Updates.check(this,true,null));status=text(Updates.status,14);root.addView(status);root.addView(text("Версия 0.1.2 · Android Camera2\nNDI® · ndi.video",13));Button licenses=new Button(this);licenses.setText("Лицензии NDI");root.addView(licenses);licenses.setOnClickListener(v->{try{java.io.InputStream in=getAssets().open("NDI-License.txt");java.io.ByteArrayOutputStream out=new java.io.ByteArrayOutputStream();byte[] b=new byte[4096];int n;while((n=in.read(b))>0)out.write(b,0,n);in.close();TextView content=text(out.toString("UTF-8"),12);ScrollView box=new ScrollView(this);box.addView(content);new AlertDialog.Builder(this).setTitle("NDI SDK License").setView(box).setPositiveButton("Закрыть",null).show();}catch(Exception e){Toast.makeText(this,e.getMessage(),Toast.LENGTH_LONG).show();}});}
  private void toggle(LinearLayout root,String title,String key,boolean fallback){Switch control=new Switch(this);control.setText(title);control.setTextColor(-1);control.setPadding(0,dp(18),0,dp(18));control.setChecked(Updates.prefs(this).getBoolean(key,fallback));root.addView(control);control.setOnCheckedChangeListener((v,on)->{Updates.prefs(this).edit().putBoolean(key,on).apply();if(key.equals("autoUpdate")){Updates.schedule(this);if(on)Updates.check(this,false,null);}});}
  @Override public void finish(){if(name!=null&&name.getText().toString().trim().isEmpty()){name.setError("Введите имя источника");return;}save();super.finish();}
  private void save(){if(name!=null&&!name.getText().toString().trim().isEmpty())Updates.prefs(this).edit().putString("deviceName",name.getText().toString().trim()).apply();}

diff --git a/RELEASE-NOTES.md b/RELEASE-NOTES.md
@@ -1,10 +1,8 @@
-NDI Camera 0.1.1 — исправления после проверки версии 0.1.0 на S23 Ultra.
+NDI Camera 0.1.2
 
-- Устранён повторный поворот сенсора: предпросмотр и NDI учитывают преобразование SurfaceTexture один раз. Масштабирование сохраняет пропорции, лишнее обрезается по центру.
-- Устранены двойные отступы FrameLayout. HUD пересчитывается при изменении размеров и системных отступов; MUTE и dBFS остаются выше панели навигации, элементы landscape не уходят за правый край.
-- Логотип и настройки расположены в 50 физических пикселях от верхнего края; при пересечении с вырезом предусмотрен дополнительный безопасный отступ.
-- Выбор объектива показывает активный пункт, приблизительное оптическое отношение и ID Camera2. Режим «Авто» подписан отдельно; фиксированный физический объектив получает собственный цифровой зум без автоматической смены камеры.
-- Физические запросы содержат нужный ID и используют только поддерживаемые physical request keys. Неподдерживаемые управления отключаются; отвергнутый объектив возвращает предпросмотр к основной камере.
-- Тап фокуса использует то же преобразование, что и картинка. Выбор качества сохраняет точный размер Camera2, включая режимы 4:3.
+- Убран переключатель объективов в обеих ориентациях. Используется автоматическая камера и прежний зум через Camera2.
+- В альбомной ориентации ряд быстрых инструментов центрирован и расположен на 50 физических px от верхнего края.
+- Переключатель камер расположен с вертикальным зазором 50 px от нижнего края кнопки настроек; смена PIP остаётся слева.
+- Сохранены безопасные отступы для выреза, аудиошкала, MUTE, START/STOP и остальные управления. При пересечении верхнего выреза с инструментами панель размещается под вырезом.
 
-Расширенные Android 15 instrumentation-тесты проверяют матрицы, четыре поворота, отсутствие растяжения, края всех элементов при вырезах и панели навигации. Скриншоты и ограничения — verification/REPORT.md. Скрытые физические объективы S23 Ultra и фактическая картинка NDI-приёмника требуют повторной проверки на телефоне.
+Пройдены Android 15 instrumentation-тесты, включая обе ориентации, отсутствие выбора объектива, автоматический вывод камеры, центрирование панели и точный зазор 50 px. Подробности и скриншоты — verification/REPORT.md.

diff --git a/verification/REPORT.md b/verification/REPORT.md
@@ -1,8 +1,14 @@
-# Проверка NDI Camera 0.1.1
+# Проверка NDI Camera 0.1.2
 
-Дата: 2 ноября 2026. Android 15 / API 35, x86_64 emulator, эмулируемые front/back cameras. Исправление 0.1.1 проверено на release-подписанном APK, включая эмуляцию display cutout hole. Исходники ARM64 и ARMv7 также собраны.
+Дата: 2 ноября 2026. Android 15 / API 35, x86_64 emulator, эмулируемые front/back cameras. Исправление 0.1.2 проверено на release-подписанном APK, включая эмуляцию display cutout hole. Исходники ARM64 и ARMv7 также собраны.
 
-## Регрессии 0.1.1
+## Изменения и регрессии 0.1.2
+
+- По прямому указанию пользователя удалены кнопка выбора объектива и диалог ручного выбора. В обеих ориентациях проверяется отсутствие этого элемента и использование автоматического Camera2 output.
+- В landscape проверяется горизонтальный центр группы восьми инструментов в безопасной области, top=50 px и зазор settings.bottom → camera.top=50 px.
+- Дополнительно проверен центральный верхний cutout: панель избегает его без пересечения с вырезом. При отсутствии выреза сохраняется отступ 50 px.
+
+## Сохранённые регрессии 0.1.1
 
 - Producer matrix применяется ровно один раз: проверки для 0/90/180/270°, front mirror, четырёх поворотов display и portrait/landscape output. Проверено равенство масштаба пикселя по осям и согласованность GL preview/readback.
 - Все дочерние элементы HUD, включая повёрнутый SeekBar и подписи, проверяются на попадание в safe bounds, а не только на взаимное пересечение кнопок.
@@ -39,4 +45,4 @@
 - Физический мультитач и фокус на реальном объекте. Инструментальные жесты подтверждают обработку событий, а не оптику.
 - Установка будущего обновления с более высоким versionCode с сохранением данных. Для проверки нужен следующий подписанный релиз.
 
[2 lines of base64/hex data omitted]
